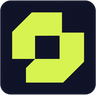
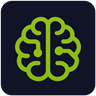
Update AI Framework branding to Circuit

diff --git a/logo-concepts/prompts.md b/logo-concepts/prompts.md
@@ -1,0 +1,15 @@
+# IT Kamianets logo prompts
+
+Generated with the built-in ImageGen tool.
+
+## Brain-A Cortex
+
+> Use case: logo-brand. Asset type: Cortex symbol for IT Kamianets AI Framework, a Node.js toolkit for building local-first agents. Subject: Classic rounded human brain from above, upright bilateral hemispheres. Start with two solid lobed silhouettes, split with a wide clear channel down the middle. Carve exactly one thick, curving, open-ended groove into each hemisphere. The sides should have a soft scalloped silhouette with two or three smooth bulges per side. Bold and friendly, close to a simple cortex pictogram. Render one logomark, transparent background with real alpha, centered on square canvas, about 73% width and height. Flat vivid spring lime #A7CE32, one solid color. Strong shape recognizability at 24 px and generous feature spacing. Clean hard contours, vector-logo treatment. No type, emoji, gradients, boxes, shadows, border, glow, lighting, illustration texture, cloud icon, anatomy labels or extra floating details.
+
+## Brain-B Profile
+
+> Use case: logo-brand. Asset type: Profile symbol for IT Kamianets AI Framework, a Node.js toolkit for building local-first agents. Subject: Clearly readable human brain viewed from the side, facing left, with a rounded, lobed crown and a distinct small lower-right cerebellum and short downward brainstem. Render as a solid architectural silhouette with two broad curved negative-space folds in the main body. Show only the organ with a stylized silhouette, as a confident science and developer-tool logo. Render one logomark, transparent background with real alpha, centered on square canvas, about 73% width and height. Flat vivid spring lime #A7CE32, one solid color. Strong shape recognizability at 24 px and generous feature spacing. Clean hard contours, vector-logo treatment. No type, emoji, gradients, boxes, shadows, border, glow, lighting, illustration texture, cloud icon, anatomy labels or extra floating details.
+
+## Brain-C Circuit
+
+> Use case: logo-brand. Asset type: Circuit symbol for IT Kamianets AI Framework, a Node.js toolkit for building local-first agents. Subject: Recognizable front-facing bilateral human brain with distinct scalloped lobes and a visible central division. Build the silhouette from thick softly squared monoline contours with strong even stroke weight. Integrate two short circuit paths into the folds, one on each half, each ending in a single robust connected round terminal. Trace cuts and gaps should be as wide as the contours. A brain first at a glance, with restrained electronic detail. Render one logomark, transparent background with real alpha, centered on square canvas, about 73% width and height. Flat vivid spring lime #A7CE32, one solid color. Strong shape recognizability at 24 px and generous feature spacing. Clean hard contours, vector-logo treatment. No type, emoji, gradients, boxes, shadows, border, glow, lighting, illustration texture, cloud icon, anatomy labels or extra floating details.
